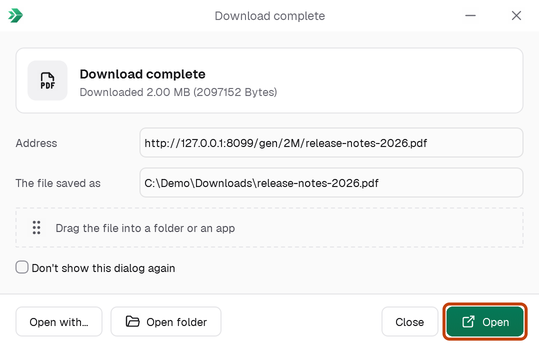
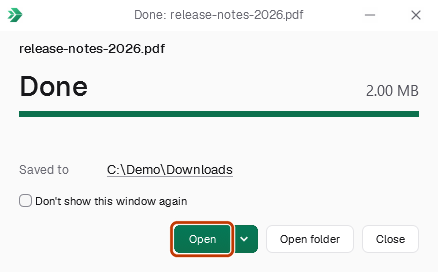
Plan 13: help pictures of the progress and Done windows taken again; plan done

diff --git a/design/graphite/plans/12-ui-consistency.md b/design/graphite/plans/12-ui-consistency.md
@@ -132,7 +132,7 @@ still quote 12c's old labels (`website/content/features/torrents.md`, `video.md`
   (`progress.rs:538-584`). `Error::LinkExpired` tells the user to "(refresh the download address)"
   (`errors.rs:74-76`), but `Cmd::RefreshAddress` exists only in the row menu (`app.rs:7660-7665`).
   Add a "Refresh download address..." button to the Details pane for LinkExpired and HTTP 403/410
-  (`Error::Status`, `errors.rs:14-17`). The progress window's button is moved to 13 (13b); both use
+  (`Error::Status`, `errors.rs:14-17`). The progress window's button is moved to 13 (done in 13b); both use
   the same label and predicate.
 - **C4. One rule for Open folder.** The Details pane's button is always enabled (`panes.rs:1374-1381`);
   the row menu enables it only when the download is done or a torrent (`app.rs:7645-7649`). Both run
@@ -211,7 +211,7 @@ its icon: `chrome::menu_icon` (`chrome.rs:1656-1673`, e.g. "On Double click"), `
     `7584`).
   - Access keys in the Downloads menu: "&Stop", "&Delete", "Delete with &files", "&Resume",
     "R&edownload". The test `no_two_items_of_a_menu_share_an_access_key` (`app.rs:13220`) must pass.
-- **A4. Moved to 13 (13b).** The progress window's "Paused" (`progress.rs:1187`) and "Pause"
+- **A4. Moved to 13 (done in 13b).** The progress window's "Paused" (`progress.rs:1187`) and "Pause"
   (`progress.rs:568`) become "Stopped" and "Stop" there. Nothing changes here: the list already
   says "Stopped" (`model.rs:1246`), which stays the Status filter value (`list.rs:134`).
 - **`Cmd::TorrentReannounce`: "Ask trackers again"** (today "Reannounce", the Torrent submenu,
@@ -246,7 +246,7 @@ its icon: `chrome::menu_icon` (`chrome.rs:1656-1673`, e.g. "On Double click"), `
       now" / "Later" / "Cancel"). The queue question's own "Download later" (`dialogs.rs:2852`) stays
       as it is.
     - "Downloaded {size} ({bytes} Bytes)" (`dialogs.rs:1672`): moved to 13, whose Done window drops
-      the byte count.
+      the byte count (done in 13a).
     - "Customize Grabbit Download panels in browsers" (`options.rs:698`) becomes "Customize
       Grabbit's download panels in browsers".
     - "Note: These settings don't relate to queue processing" (`options.rs:1150`) becomes "Note:
@@ -285,7 +285,7 @@ its icon: `chrome::menu_icon` (`chrome.rs:1656-1673`, e.g. "On Double click"), `
 - **C6 (words).** Link grabber's "Check all" / "Uncheck all" (`grabber.rs:639-641`) becomes "Select
   all" / "Select none", as in Add torrent and Playlist (`torrentdlg.rs:607`, `620`;
   `playlistdlg.rs:540`, `550`).
-- **F9. Moved to 13 (13b).** The progress window's "<< Hide details" / "Show details >>"
+- **F9. Moved to 13 (done in 13b).** The progress window's "<< Hide details" / "Show details >>"
   (`progress.rs:490-492`) become "Hide details" / "Show details" with a chevron there.
 
 **Options and other labels:**
@@ -342,11 +342,11 @@ its icon: `chrome::menu_icon` (`chrome.rs:1656-1673`, e.g. "On Double click"), `
     the progress window. Default: `size3` follows `size`, and the tests change with it. (Plan 13's
     window calls `model::size`; the function change stays here.)
   - Percent: the progress window's "( 1.58 % )" (`progress.rs:1241`) is moved to 13, whose reading
-    and detail line replace it.
+    and detail line replace it (done in 13c).
   - The double space before a unit, from `dialog_size` (`dialogs.rs:683-686`) and `size_list`
     (`model.rs:1395-1398`), becomes one space.
   - Units: "KBytes/sec" (`dialogs.rs:1948`, `2025`; `torrentdlg.rs:1301`; the progress window's
-    `progress.rs:815`, `913` are moved to 13, which writes "KB/s")
+    `progress.rs:815`, `913` are moved to 13, which writes "KB/s"; done in 13b)
     and "MBytes" (`quota.rs:12`, `dialogs.rs:2162`) become "KB/s" and "MB", matching the rates'
     style (`model.rs:1386-1393`; "MB/sec" there becomes "MB/s").
   - Costs a few lines in model.rs and dialogs.rs (high churn), but each is one function. It goes
@@ -385,7 +385,7 @@ Changes made at the helper where possible. Costly items are last and can be spli
   Change the bodies of `etched_h`/`etched_v` (`winui.rs:5588-5601`) to a 1 px `fill_l` in
   `menubar_line`, as `rule()` draws. They take absolute coordinates, `rule` takes `o + x`, so this is
   a body swap with no call sites touched. It applies to every theme: take a shot in a non-Graphite
-  theme too. (`progress.rs:982` goes away with plan 13's removal of the Options on completion tab.)
+  theme too. (`progress.rs:982` goes away with plan 13's removal of the Options on completion tab: done in 13b.)
 - **G3. Focus rings only from the keyboard.** Find's filter chips (`find.rs:531-537`) and the
   light/dark button (`chrome.rs:909-915`) draw an accent ring on `has_focus()`. Use
   `winui::focus_ring_round`, which checks `keyboard_in_use` (`winui.rs:4836-4839`).
@@ -455,7 +455,7 @@ DA6 and DA1t, if the other option is chosen. Each is behaviour and gets its own 
 | --- | --- | --- |
 | B5 | No speed-limit presets in the tray or menu | A new feature, not consistency; add it to ROADMAP if wanted |
 | B6 | The Scheduler page asks before deleting a queue | Asking costs nothing (12b fixes the comment) |
-| C3 | The progress window fills both Pause and Resume | Moved to 13, which sets the rule: only a state's main action is filled |
+| C3 | The progress window fills both Pause and Resume | Moved to 13, which sets the rule: only a state's main action is filled (done in 13b) |
 | D2 | No dialog can be resized | Window scaling is out of scope |
 | D3 | Add 560, torrent and video 600, gallery 520 wide | They hold different content |
 | D6 | The crash report's hint is cut | By design, readable on hover (#164) |
@@ -468,7 +468,7 @@ DA6 and DA1t, if the other option is chosen. Each is behaviour and gets its own 
 00-conventions' checks 1–6: fmt, clippy, test, the extension test where touched, release build and
 run, and a keyboard pass in every changed window. The external audit loop: a fresh read-only auditor
 until APPROVED. Screenshots per part on `pr-shots`. Help pictures are retaken once, after 12d, not
-per part; pictures of the progress and Done windows are left to plan 13, which retakes them after 13d. After each part, `python tools/upstream-sync/sync.py status --fetch`: any newly
+per part; pictures of the progress and Done windows are left to plan 13, which retakes them after 13d (done). After each part, `python tools/upstream-sync/sync.py status --fetch`: any newly
 conflicting upstream commit is noted in the PR.
 
 ## Definition of done

diff --git a/design/graphite/plans/13-download-window.md b/design/graphite/plans/13-download-window.md
@@ -218,7 +218,9 @@ two windows are retaken once, after 13d (plan 12's retake skips them).
 
 ## Definition of done
 
-- [ ] 13a-13d merged into `dev`, each audited until APPROVED
-- [ ] Every row of "Done in plan 13" above is done, and plan 12's matching items say so
-- [ ] Every board on the canvas matches the app at 100%, light and dark
-- [ ] ROADMAP and CHANGELOG lines per part; docs and help pictures updated for the changed names
+- [x] 13a-13d merged into `dev`, each audited until APPROVED (PRs 127-130)
+- [x] Every row of "Done in plan 13" above is done, and plan 12's matching items say so
+- [x] Every board on the canvas matches the app at 100%, light and dark (screenshots in PRs 127-130;
+  the known differences are in each part's PR: "1 hour(s) 12 min" in the app's own time format,
+  Segoe UI Regular for the reading, Details 20 points taller to keep one height in every state)
+- [x] ROADMAP and CHANGELOG lines per part; docs and help pictures updated for the changed names

diff --git a/docs/torrents.md b/docs/torrents.md
@@ -18,8 +18,8 @@ Grabbit downloads BitTorrent files from magnet links and `.torrent` files. Torre
 
 1. ![Add torrent with a torrent's files as a folder tree, the folder they go to, and Download now](images/help/torrent-add.webp)
    *Untick what you don't want, then Download now.*
-2. ![A torrent's progress window on its Files tab](images/help/torrent-files.webp)
-   *Its progress window: each file and how much of it is here.*
+2. ![A torrent's progress window: how far it is, with its pieces lit in the strip](images/help/torrent-files.webp)
+   *Its progress window: the pieces it has light up in the strip.*
 3. ![A torrent's progress window with its details: its pieces, peers and limits, and its files](images/help/torrent-pieces.webp)
    *Show details: the torrent's numbers, its files, peers and trackers.*
 

diff --git a/README.md b/README.md
@@ -119,7 +119,7 @@ one:
     <td><img src="docs/images/add-torrent.webp" alt="Add torrent"><br><sub><b>Torrents and magnet links</b>: pick the files you want, skip the rest.</sub></td>
   </tr>
   <tr>
-    <td><img src="docs/images/progress-torrent.webp" alt="A torrent's progress window"><br><sub><b>A torrent's progress</b>: its files, peers and trackers in tabs, its pieces in the strip.</sub></td>
+    <td><img src="docs/images/progress-torrent.webp" alt="A torrent's progress window"><br><sub><b>A torrent's progress</b>: its pieces light up in the strip; Show details for its files, peers and trackers.</sub></td>
     <td><img src="docs/images/progress-video.webp" alt="A video's progress window"><br><sub><b>A video's progress</b>: speed and time left while yt-dlp brings it in.</sub></td>
   </tr>
   <tr>

diff --git a/ROADMAP.md b/ROADMAP.md
@@ -731,7 +731,7 @@ Done since 1.0.1; ships in the next release.
   finishing, joining, a torrent checking its files or sharing, a web page, a debrid service,
   can't resume), and the Done window in the same layout ("Done" with the size, the files, Saved
   to as a link, Open | ▾ as one split button) whose name row drags the file out or copies it with
-  Ctrl+C. The help pictures of these two windows are taken again next.
+  Ctrl+C. The help pictures of these two windows are taken again.
 
 ## Being worked on
 
